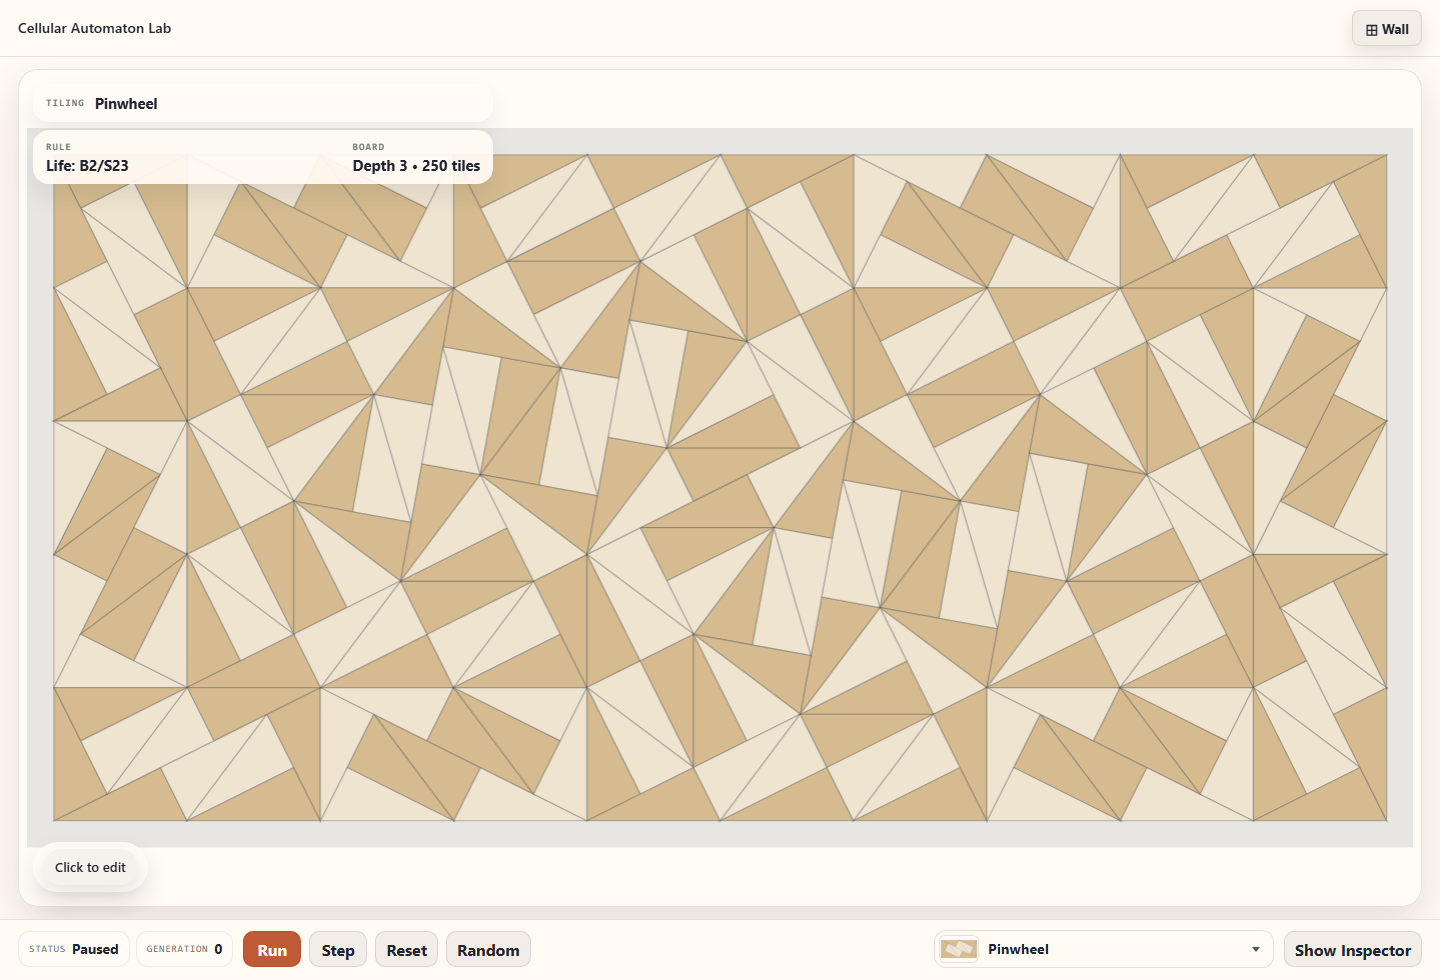
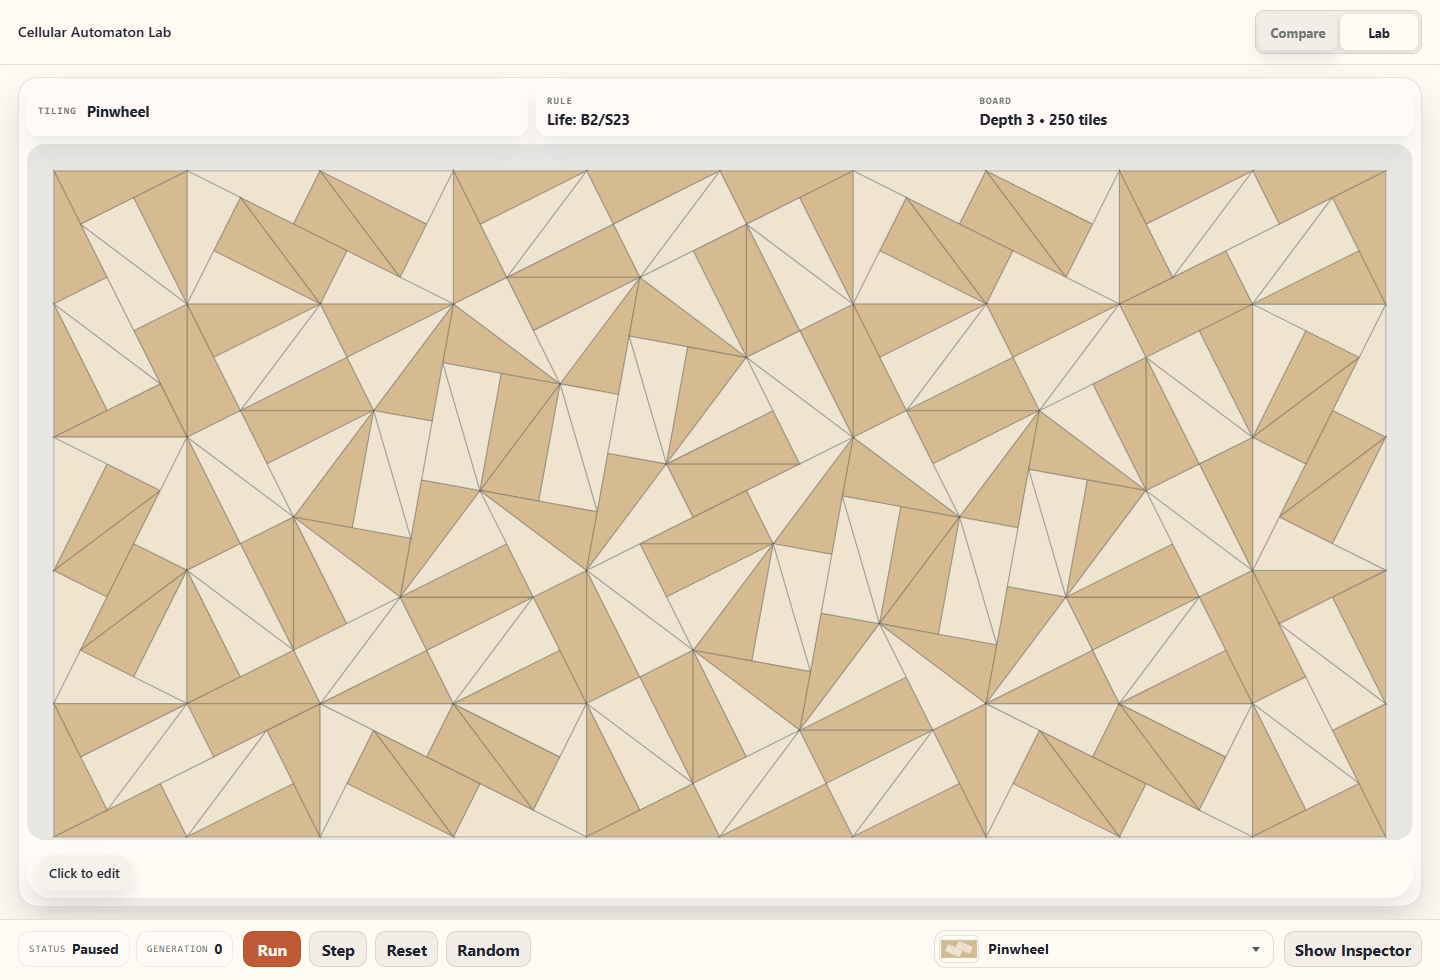
Refresh README screenshots

Changed region(s): [[0.0312, 0.0918, 0.9688, 0.9184], [0.875, 0.0, 1.0, 0.0612], [0.0, 0.0306, 0.125, 0.0612]]

diff --git a/tools/capture_readme_screenshots.py b/tools/capture_readme_screenshots.py
@@ -80,10 +80,10 @@ def _capture_compare_results(page: Page, output_dir: Path) -> None:
     page.locator(".wall-page").wait_for(state="visible", timeout=TIMEOUT_MS)
     # Configuration lives in a bottom sheet the dock gear slides up.
     page.locator('.compare-dock-icon[aria-label="Configure the run"]').click(timeout=TIMEOUT_MS)
-    page.locator(".compare-config-run").evaluate("(section) => { section.open = true; }")
-    selects = page.locator("select.compare-field")
+    setup_panel = page.locator("#compare-config-panel-setup")
+    selects = setup_panel.locator("select.compare-field")
     selects.nth(1).select_option("acorn", timeout=TIMEOUT_MS)
-    page.locator("input.compare-field").evaluate_all(
+    setup_panel.locator("input.compare-field").evaluate_all(
         """(inputs) => {
             const numberInputs = inputs.filter((input) => input instanceof HTMLInputElement && input.type === "number");
             const steps = numberInputs[0];
@@ -100,25 +100,44 @@ def _capture_compare_results(page: Page, output_dir: Path) -> None:
             }
         }"""
     )
-    # The analytical run lives in a collapsed disclosure below the stage.
-    page.locator(".compare-config-analysis").evaluate("(section) => { section.open = true; }")
-    page.get_by_role("button", name="Run comparison", exact=True).click(timeout=TIMEOUT_MS)
+    page.locator("#compare-config-tab-analysis").click(timeout=TIMEOUT_MS)
+    analysis_panel = page.locator("#compare-config-panel-analysis")
+    analysis_panel.wait_for(state="visible", timeout=TIMEOUT_MS)
+    analysis_panel.get_by_role("button", name="Run analysis", exact=True).click(timeout=TIMEOUT_MS)
     page.locator(".compare-grid tbody tr").nth(0).wait_for(state="visible", timeout=TIMEOUT_MS)
-    # Flatten the fixed config sheet so a full-height capture includes the whole
-    # analysis section, which now lives inside it.
     page.add_style_tag(
         content="""
             .compare-config-sheet {
-                position: absolute !important;
+                position: static !important;
                 transform: none !important;
                 max-height: none !important;
+                height: auto !important;
             }
-            .compare-config-sheet-body {
+            .compare-config-sheet-body,
+            .compare-config-panel-analysis {
                 overflow: visible !important;
+                max-height: none !important;
+            }
+            .wall-screen,
+            .compare-config-sheet-header,
+            .compare-config-tabs,
+            .compare-intro,
+            .compare-run-secondary {
+                display: none !important;
+            }
+            html,
+            body,
+            .compare-content {
+                overflow: visible !important;
+                height: auto !important;
             }
         """
     )
-    _save_locator_png(page, ".compare-config-sheet", output_dir / "readme-compare-results-hero.png")
+    _save_optimized_png(
+        page,
+        output_dir / "readme-compare-results-hero.png",
+        full_page=True,
+    )
 
 
 def _capture_wall_hero(page: Page, output_dir: Path) -> None:
@@ -129,23 +148,19 @@ def _capture_wall_hero(page: Page, output_dir: Path) -> None:
     page.locator(".compare-filmstrip-board .compare-thumb").nth(3).wait_for(
         state="visible", timeout=TIMEOUT_MS
     )
-    _save_locator_png(page, ".wall-page", output_dir / "readme-wall-hero.png")
+    _save_optimized_png(page, output_dir / "readme-wall-hero.png")
 
 
-def _capture_snub_workspace(page: Page, output_dir: Path) -> None:
-    select_tiling_family(page, "archimedean-3-3-3-3-6", timeout_ms=TIMEOUT_MS)
+def _capture_uniform_2_3_workspace(page: Page, output_dir: Path) -> None:
+    select_tiling_family(page, "uniform-2-3-44-33344", timeout_ms=TIMEOUT_MS)
     _wait_ready(page)
-    _open_inspector_sheet(page)
-    _select_native_value(page, "#rule-select", "kagome-life")
-    _wait_ready(page)
-    # Close the sheet so the captured workspace shows the full board.
-    _click(page, "#drawer-toggle-btn")
     _click(page, "#random-btn")
     _wait_ready(page)
     for _ in range(12):
         _click(page, "#step-btn")
         _wait_ready(page)
-    _save_optimized_png(page, output_dir / "readme-snub-trihexagonal-overview.png")
+    page.evaluate("window.scrollTo(0, 0)")
+    _save_optimized_png(page, output_dir / "readme-uniform-2-3-overview.png")
 
 
 def _capture_pinwheel_workspace(page: Page, output_dir: Path) -> None:
@@ -153,6 +168,7 @@ def _capture_pinwheel_workspace(page: Page, output_dir: Path) -> None:
     _wait_ready(page)
     set_patch_depth(page, 3, timeout_ms=TIMEOUT_MS)
     _wait_ready(page)
+    page.evaluate("window.scrollTo(0, 0)")
     _save_optimized_png(page, output_dir / "readme-pinwheel-overview.png")
 
 
@@ -165,6 +181,7 @@ def _capture_picker_thumbnails(page: Page, output_dir: Path) -> None:
         state="visible",
         timeout=TIMEOUT_MS,
     )
+    page.evaluate("window.scrollTo(0, 0)")
     _save_optimized_png(page, output_dir / "readme-tiling-picker-thumbnails.png")
 
 
@@ -185,7 +202,7 @@ def capture_readme_screenshots(output_dir: Path) -> None:
     scenarios: tuple[tuple[Callable[[Page, Path], None], str, bool], ...] = (
         (_capture_wall_hero, "", False),
         (_capture_compare_results, "", True),
-        (_capture_snub_workspace, "#/lab", True),
+        (_capture_uniform_2_3_workspace, "#/lab", True),
         (_capture_pinwheel_workspace, "#/lab", True),
         (_capture_picker_thumbnails, "#/lab", True),
     )

diff --git a/README.md b/README.md
@@ -24,7 +24,7 @@ It is intended for comparing how familiar automata behave on different local nei
 
 ## Highlights
 
-- 55 shipped tiling families (3 regular grids, 28 periodic mixed tilings, 24 aperiodic patches including Penrose variants, the Hat/Turtle/Spectre monotiles, the chair/L-tetromino/P-pentomino rep-tiles, and 7-/9-/11-/12-/13-fold quasicrystals)
+- 56 shipped tiling families (3 regular grids, 29 periodic mixed tilings, 24 aperiodic patches including Penrose variants, the Hat/Turtle/Spectre monotiles, the chair/L-tetromino/P-pentomino rep-tiles, and 7-/9-/11-/12-/13-fold quasicrystals)
 - 16 built-in rules spanning Life-like, mixed-tiling, excitable, and signal systems
 - one shared `next_state(ctx)` rule protocol across all shipped topologies
 - canvas-first editing with brush, line, rectangle, fill, undo/redo, presets, and pattern import/export
@@ -38,9 +38,9 @@ It is intended for comparing how familiar automata behave on different local nei
 
 ![Compare results showing one acorn seed evaluated across representative tilings](docs/images/readme-compare-results-hero.png)
 
-### Snub Trihexagonal mixed-tiling board in the Lab
+### 2-uniform #3 square-triangle board in the Lab
 
-![Snub Trihexagonal mixed Life](docs/images/readme-snub-trihexagonal-overview.png)
+![2-uniform #3 square-triangle Life](docs/images/readme-uniform-2-3-overview.png)
 
 ### Pinwheel aperiodic patch with depth controls
 
